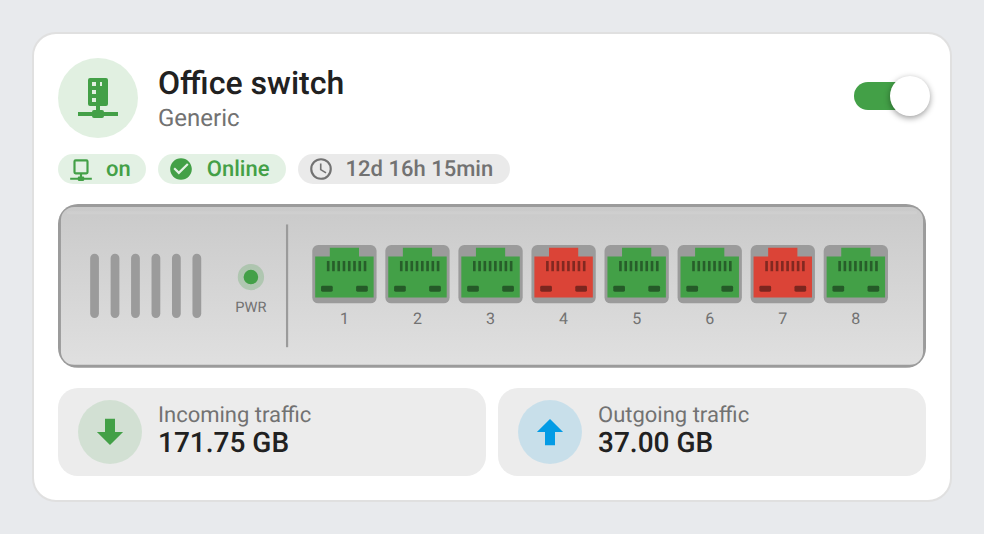
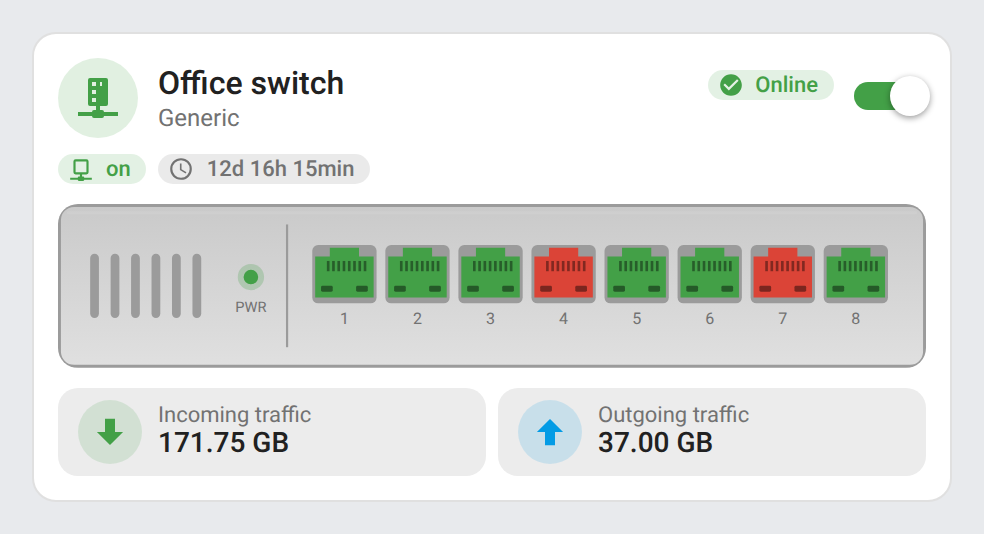
Review pass 2 fixes + release 1.8.0 (#26)
Fixes from review pass 2 (`findings/ha-switch-card.md`), release
**1.8.0** (minor: new `language` option, grey unavailable states and the
header status pill are visible behaviour changes).

## 🔴 Bugs
- `isSafeUrl`: relative paths containing `\`, tab, CR or LF are rejected
(`/\evil.com`, `/\t/evil.com` resolved to `https://evil.com/`).
Regression tests added.
- `_formatTraffic`: a non-numeric state (`unavailable` / `unknown`) goes
through `_formatState` (no more "unavailable MB"); non-byte units go
through `hass.formatEntityState` (rounded, localized). Test added.

## 🟠 Improvements
- Ports with an `unavailable` / `unknown` entity are drawn grey, not
red; README "How it works" updated.
- Header icon / power LED / status chip grey when `status_entity` is
unavailable/unknown; same for `connectivity_entity`, whose chip uses
`mdi:help-network-outline` instead of `network-off`. Test added.
- Power toggle: once the service call settles (success or failure), the
render key is dropped and the card redrawn from the real state, so a
switch that does not answer no longer leaves the toggle flipped. Test
added.

## 🟡 Consistency
- README intro: "FR/EN auto-detected" replaced by en/fr/de/es +
`language`.
- New `language` option (`config.language || HA language`) with an
editor select (Automatic / English / Français / Deutsch / Español),
README table row; follows the ha-dockhand-card pattern. Test added.
- `computeHelper` separator moved to I18N (`colon`): "Default: 8" in
[…]

Changed region(s): [[0.7012, 0.1199, 0.8537, 0.2097], [0.1524, 0.2996, 0.5183, 0.3296]]

diff --git a/src/ha-switch-card.js b/src/ha-switch-card.js
@@ -13,6 +13,8 @@ const I18N = {
     out: 'Trafic sortant',
     port: 'Port',
     default: 'Défaut',
+    colon: ' : ',
+    lang_auto: 'Automatique',
     sections: {
       general: 'Général',
       entities: 'Entités',
@@ -42,6 +44,7 @@ const I18N = {
       port_start: 'Position du 1er port (%)',
       port_step: 'Écart entre ports (%)',
       port_bottom: 'Hauteur des ports (% depuis le bas)',
+      language: 'Langue',
     },
     units: { timeticks: 'Centièmes de seconde (SNMP)', seconds: 'Secondes' },
     day: 'j',
@@ -57,6 +60,8 @@ const I18N = {
     out: 'Outgoing traffic',
     port: 'Port',
     default: 'Default',
+    colon: ': ',
+    lang_auto: 'Automatic',
     sections: {
       general: 'General',
       entities: 'Entities',
@@ -86,6 +91,7 @@ const I18N = {
       port_start: 'First port position (%)',
       port_step: 'Spacing between ports (%)',
       port_bottom: 'Port height (% from bottom)',
+      language: 'Language',
     },
     units: { timeticks: 'Hundredths of a second (SNMP)', seconds: 'Seconds' },
     day: 'd',
@@ -101,6 +107,8 @@ const I18N = {
     out: 'Ausgehender Datenverkehr',
     port: 'Port',
     default: 'Standard',
+    colon: ': ',
+    lang_auto: 'Automatisch',
     sections: {
       general: 'Allgemein',
       entities: 'Entitäten',
@@ -130,6 +138,7 @@ const I18N = {
       port_start: 'Position des ersten Ports (%)',
       port_step: 'Abstand zwischen den Ports (%)',
       port_bottom: 'Höhe der Ports (% von unten)',
+      language: 'Sprache',
     },
     units: { timeticks: 'Hundertstelsekunden (SNMP)', seconds: 'Sekunden' },
     day: 'T',
@@ -145,6 +154,8 @@ const I18N = {
     out: 'Tráfico saliente',
     port: 'Puerto',
     default: 'Predeterminado',
+    colon: ': ',
+    lang_auto: 'Automático',
     sections: {
       general: 'General',
       entities: 'Entidades',
@@ -174,6 +185,7 @@ const I18N = {
       port_start: 'Posición del primer puerto (%)',
       port_step: 'Separación entre puertos (%)',
       port_bottom: 'Altura de los puertos (% desde abajo)',
+      language: 'Idioma',
     },
     units: { timeticks: 'Centésimas de segundo (SNMP)', seconds: 'Segundos' },
     day: 'd',
@@ -225,8 +237,9 @@ const COLORS = {
 // Darker shade of a port color, for its contacts and LEDs.
 const shade = (color) => `color-mix(in srgb, ${color} 45%, #000)`;
 
-const getLang = (hass) => {
-  const l = (hass?.locale?.language || hass?.language || navigator.language || 'en').slice(0, 2);
+// `language` from the card config wins over the Home Assistant language.
+const getLang = (hass, config) => {
+  const l = String(config?.language || hass?.locale?.language || hass?.language || navigator.language || 'en').slice(0, 2);
   return I18N[l] ? l : 'en';
 };
 
@@ -234,8 +247,19 @@ const esc = (s) =>
   String(s ?? '').replace(/[&<>"']/g, (c) => ({ '&': '&amp;', '<': '&lt;', '>': '&gt;', '"': '&quot;', "'": '&#39;' })[c]);
 
 // Admin URLs opened on a tap: only http(s) and same-origin relative paths, never javascript:/data:
-// or protocol-relative //evil.com from a YAML config.
-const isSafeUrl = (url) => /^https?:\/\//i.test(url) || /^\/(?!\/)/.test(String(url));
+// or protocol-relative //evil.com from a YAML config. The browser's URL parser reads `\` as `/` and drops
+// tabs and newlines, so `/\evil.com` or `/<tab>/evil.com` would also open evil.com: a relative path with
+// any of these characters is rejected.
+const isSafeUrl = (url) => {
+  const s = String(url ?? '');
+  return /^https?:\/\//i.test(s) || (/^\/(?!\/)/.test(s) && !/[\\\t\n\r]/.test(s));
+};
+
+// An entity Home Assistant has no value for: drawn grey (state unknown), not red (off / down).
+const isUnavailable = (st) => st?.state === 'unavailable' || st?.state === 'unknown';
+
+// A config number (port overlay position), or its default when the YAML value is not a number.
+const num = (v, def) => (Number.isFinite(Number(v)) && v !== '' && v !== null ? Number(v) : def);
 
 const formatBytes = (v) => {
   if (!Number.isFinite(v)) return '—';
@@ -409,6 +433,9 @@ function configWarnings(c) {
   if (count > 52) out.push(`ports is ${count}, above the 52 the editor allows`);
   const m = !c.image && MODELS[c.model];
   if (m && count > m.ports) out.push(`model ${c.model} draws ${m.ports} ports; ports ${m.ports + 1} to ${count} are not shown`);
+  for (const k of ['port_start', 'port_step', 'port_bottom']) {
+    if (c[k] != null && num(c[k], null) === null) out.push(`${k} is not a number: the default ${DEFAULTS[k]} is used`);
+  }
   return out;
 }
 
@@ -500,12 +527,13 @@ class HaSwitchCard extends HTMLElement {
     const c = this._config;
     const st = this._state(c.status_entity);
     if (st) {
+      if (isUnavailable(st)) return COLORS.grey;
       if (statusIs(st.state, c, 'online_state')) return COLORS.green;
       if (statusIs(st.state, c, 'idle_state')) return COLORS.orange;
       return COLORS.red;
     }
     const con = this._state(c.connectivity_entity);
-    if (con) return con.state === 'on' ? COLORS.green : COLORS.red;
+    if (con) return isUnavailable(con) ? COLORS.grey : con.state === 'on' ? COLORS.green : COLORS.red;
     return COLORS.grey;
   }
 
@@ -516,9 +544,13 @@ class HaSwitchCard extends HTMLElement {
 
   _formatTraffic(st) {
     if (!st) return '—';
+    const v = parseFloat(st.state);
+    // `unavailable` / `unknown` (which keep their unit attribute) read as Home Assistant shows them, not "unavailable MB".
+    if (!Number.isFinite(v)) return this._formatState(st);
     const unit = st.attributes?.unit_of_measurement;
-    if (unit && !['B', 'bytes', 'octets', 'o'].includes(unit)) return `${st.state} ${unit}`;
-    return formatBytes(parseFloat(st.state));
+    // Other units (kB/s, Mbit/s…): rounded and localized by Home Assistant, as in its own UI.
+    if (unit && !['B', 'bytes', 'octets', 'o'].includes(unit)) return this._hass.formatEntityState ? this._hass.formatEntityState(st) : `${st.state} ${unit}`;
+    return formatBytes(v);
   }
 
   _moreInfo(entityId) {
@@ -550,28 +582,38 @@ class HaSwitchCard extends HTMLElement {
       if (id === headerEntity) k += `\u0000${st?.attributes?.friendly_name ?? ''}`;
       return k;
     };
-    const key = getLang(this._hass) + this._configKey + this._watchedIds.map(entityKey).join('|');
+    const lang = getLang(this._hass, c);
+    const key = lang + this._configKey + this._watchedIds.map(entityKey).join('|');
     if (key === this._key) return;
     this._key = key;
 
-    const t = I18N[getLang(this._hass)];
+    const t = I18N[lang];
     const statusColor = this._statusColor();
     const sw = this._state(c.switch_entity);
 
-    /* chips */
+    /* status pill (header, right of the title) and chips */
     const chips = [];
+    let conChip = '';
     const con = this._state(c.connectivity_entity);
     if (c.connectivity_entity) {
       const on = con?.state === 'on';
-      chips.push(this._chip(c.connectivity_entity, on ? 'mdi:network-outline' : 'mdi:network-off-outline', on ? COLORS.green : COLORS.red, this._formatState(con)));
+      // Unreachable (unavailable / unknown) is grey with a question mark, not the red "network off" of a real outage.
+      const unknown = !con || isUnavailable(con);
+      const icon = unknown ? 'mdi:help-network-outline' : on ? 'mdi:network-outline' : 'mdi:network-off-outline';
+      conChip = this._chip(c.connectivity_entity, icon, unknown ? COLORS.grey : on ? COLORS.green : COLORS.red, this._formatState(con));
     }
+    let pill = '';
     const st = this._state(c.status_entity);
     if (c.status_entity) {
       // Online / idle read in the card's language, whatever the sensor reports; any other state as Home Assistant shows it.
       const online = statusIs(st?.state, c, 'online_state');
       const idle = !online && statusIs(st?.state, c, 'idle_state');
-      const icon = online ? 'mdi:check-circle' : idle ? 'mdi:minus-circle' : 'mdi:alert-circle';
-      chips.push(this._chip(c.status_entity, icon, statusColor, online ? t.online : idle ? t.idle : this._formatState(st)));
+      const icon = online ? 'mdi:check-circle' : idle ? 'mdi:minus-circle' : isUnavailable(st) ? 'mdi:help-circle' : 'mdi:alert-circle';
+      pill = this._chip(c.status_entity, icon, statusColor, online ? t.online : idle ? t.idle : this._formatState(st));
+      if (conChip) chips.push(conChip);
+    } else {
+      // No status sensor: connectivity is the header status.
+      pill = conChip;
     }
     if (c.uptime_entity) {
       chips.push(this._chip(c.uptime_entity, 'mdi:clock-outline', COLORS.neutral, formatUptime(this._state(c.uptime_entity)?.state, c.uptime_unit, t.day)));
@@ -584,7 +626,8 @@ class HaSwitchCard extends HTMLElement {
       const id = this._portEntity(n);
       const ps = this._state(id);
       const up = ps?.state === String(c.port_on_state);
-      const color = !ps ? COLORS.grey : up ? COLORS.green : COLORS.red;
+      // Missing, unavailable or unknown: grey, so a dead SNMP poll does not show every port as down.
+      const color = !ps || isUnavailable(ps) ? COLORS.grey : up ? COLORS.green : COLORS.red;
       portInfo.push({ n, id, colors: [color, shade(color)] });
     }
     const urlAttr = c.url ? `data-url="${esc(c.url)}" role="link" tabindex="0" aria-label="${esc(t.open_admin)}"` : '';
@@ -592,11 +635,11 @@ class HaSwitchCard extends HTMLElement {
     if (c.image) {
       const ports = portInfo.map(
         ({ n, id, colors }) =>
-          `<div class="port" style="left:${Number(c.port_start) + (n - 1) * Number(c.port_step)}%" data-entity="${esc(id)}" role="button" tabindex="0" title="${t.port} ${n}">${portSvg(...colors)}</div>`
+          `<div class="port" style="left:${num(c.port_start, DEFAULTS.port_start) + (n - 1) * num(c.port_step, DEFAULTS.port_step)}%" data-entity="${esc(id)}" role="button" tabindex="0" title="${t.port} ${n}">${portSvg(...colors)}</div>`
       );
       device = `<div class="device img" ${urlAttr}>
            <img src="${esc(c.image)}" alt="">
-           <div class="ports abs" style="bottom:${Number(c.port_bottom)}%">${ports.join('')}</div>
+           <div class="ports abs" style="bottom:${num(c.port_bottom, DEFAULTS.port_bottom)}%">${ports.join('')}</div>
          </div>`;
     } else if (MODELS[c.model]) {
       const m = MODELS[c.model];
@@ -624,7 +667,7 @@ class HaSwitchCard extends HTMLElement {
             <ha-icon icon="${esc(c.icon)}"></ha-icon>
           </div>
           <div class="titles">
-            <div class="name">${esc(c.name)}</div>
+            <div class="title-row"><div class="name">${esc(c.name)}</div>${pill}</div>
             ${c.subtitle ? `<div class="sub">${esc(c.subtitle)}</div>` : ''}
           </div>
           ${sw ? `<ha-switch></ha-switch>` : ''}
@@ -646,12 +689,15 @@ class HaSwitchCard extends HTMLElement {
       toggle.disabled = sw.state === 'unavailable' || sw.state === 'unknown';
       toggle.addEventListener('change', (ev) => {
         const [domain] = c.switch_entity.split('.');
-        // On failure the toggle would stay visually flipped until the next state change:
-        // drop the render key and redraw from the real state.
-        Promise.resolve(this._hass.callService(domain, ev.target.checked ? 'turn_on' : 'turn_off', { entity_id: c.switch_entity })).catch(() => {
-          this._key = '';
-          this._render();
-        });
+        // When the call fails, or succeeds but the entity keeps its state (a switch that does not answer),
+        // the render key does not change and the toggle would stay visually flipped: once the call settles,
+        // drop the key and redraw from the real state.
+        Promise.resolve(this._hass.callService(domain, ev.target.checked ? 'turn_on' : 'turn_off', { entity_id: c.switch_entity }))
+          .catch(() => {})
+          .then(() => {
+            this._key = '';
+            this._render();
+          });
       });
     }
   }
@@ -681,6 +727,10 @@ class HaSwitchCard extends HTMLElement {
       }
       .ic.big { --size: 40px; --mdc-icon-size: 24px; background: color-mix(in srgb, var(--c) 16%, transparent); }
       .titles { min-width: 0; }
+      /* The status pill shares the title's line, right of the name (left of the power toggle), whatever the subtitle. */
+      .title-row { display: flex; align-items: center; gap: 8px; }
+      .title-row > .name { flex: 1; min-width: 0; }
+      .title-row > .chip { flex: none; white-space: nowrap; }
       .name { font-size: 16px; font-weight: 500; line-height: 1.25; color: var(--primary-text-color); white-space: nowrap; overflow: hidden; text-overflow: ellipsis; }
       .sub { font-size: 12px; color: var(--secondary-text-color); white-space: nowrap; overflow: hidden; text-overflow: ellipsis; }
       ha-switch {
@@ -736,10 +786,10 @@ class HaSwitchCardEditor extends HTMLElement {
   }
 
   set hass(hass) {
-    const prevLang = this._hass ? getLang(this._hass) : null;
+    const prevLang = this._hass ? getLang(this._hass, this._config) : null;
     this._hass = hass;
     // Only a language change needs new labels: otherwise hand the new hass to the form and keep it as is.
-    if (this._form && prevLang === getLang(hass)) {
+    if (this._form && prevLang === getLang(hass, this._config)) {
       this._form.hass = hass;
       return;
     }
@@ -817,6 +867,21 @@ class HaSwitchCardEditor extends HTMLElement {
             ],
           },
           { name: 'url', selector: { text: { type: 'url' } } },
+          {
+            name: 'language',
+            selector: {
+              select: {
+                mode: 'dropdown',
+                options: [
+                  { value: '', label: t.lang_auto },
+                  { value: 'en', label: 'English' },
+                  { value: 'fr', label: 'Français' },
+                  { value: 'de', label: 'Deutsch' },
+                  { value: 'es', label: 'Español' },
+                ],
+              },
+            },
+          },
         ],
       },
     ];
@@ -824,7 +889,7 @@ class HaSwitchCardEditor extends HTMLElement {
 
   _render() {
     if (!this._hass || !this._config) return;
-    const t = I18N[getLang(this._hass)];
+    const t = I18N[getLang(this._hass, this._config)];
     if (!this._form) {
       this._form = document.createElement('ha-form');
       this._form.addEventListener('value-changed', (ev) => {
@@ -844,7 +909,7 @@ class HaSwitchCardEditor extends HTMLElement {
     this._form.computeLabel = (s) => t.fields[s.name] ?? s.name;
     this._form.computeHelper = (s) => {
       const def = DEFAULTS[s.name] ?? STATUS_DEFAULTS[s.name]?.join(' / ');
-      return def !== undefined ? `${t.default} : ${def}` : undefined;
+      return def !== undefined ? `${t.default}${t.colon}${def}` : undefined;
     };
   }
 }

diff --git a/README.md b/README.md
@@ -6,7 +6,7 @@
 [![Release](https://img.shields.io/github/v/release/juju35/ha-switch-card)](https://github.com/juju35/ha-switch-card/releases/latest)
 [![License: MIT](https://img.shields.io/badge/License-MIT-yellow.svg)](LICENSE)
 
-Custom Lovelace card for Home Assistant displaying a managed network switch (SNMP): power toggle, global status, connectivity, uptime, per-port state and traffic. Pure JavaScript, no dependencies (no mushroom, card-mod or button-card required). Fully configurable from the visual editor. FR/EN auto-detected.
+Custom Lovelace card for Home Assistant displaying a managed network switch (SNMP): power toggle, global status, connectivity, uptime, per-port state and traffic. Pure JavaScript, no dependencies (no mushroom, card-mod or button-card required). Fully configurable from the visual editor. English, French, German and Spanish, auto-detected from Home Assistant or set with `language`.
 
 [![Open your Home Assistant instance and open a repository inside the Home Assistant Community Store.](https://my.home-assistant.io/badges/hacs_repository.svg)](https://my.home-assistant.io/redirect/hacs_repository/?owner=juju35&repository=ha-switch-card&category=plugin)
 
@@ -68,7 +68,7 @@ Or manually:
 
 ### Visual editor
 
-Edit a dashboard, click **Add card** and search for **Network switch card**. Every option below is available in the editor, grouped by entities, ports and appearance.
+Edit a dashboard, click **Add card** and search for **Network switch card**. Every option below is available in the editor, grouped by entities, ports, status and appearance.
 
 ### Full options
 
@@ -101,15 +101,16 @@ url: http://switch.local
 | `connectivity_entity` | – | Connectivity `binary_sensor` |
 | `uptime_entity` | – | Uptime sensor |
 | `uptime_unit` | `timeticks` | `timeticks` (SNMP, 1/100 s) or `seconds` |
-| `traffic_in_entity` / `traffic_out_entity` | – | Traffic sensors (bytes, auto-scaled) |
+| `traffic_in_entity` / `traffic_out_entity` | – | Traffic sensors: bytes are auto-scaled, other units (`kB/s`, `Mbit/s`…) are shown as Home Assistant formats them |
 | `ports` | `8` | Number of ports |
 | `port_pattern` | `sensor.switch_port_{n}_status` | Port entity pattern, `{n}` = port number |
 | `port_on_state` | `1` | State meaning "port up" |
-| `online_state` / `idle_state` | `Online` or `En ligne` / `Idle` or `Inactif` | Values of `status_entity` shown green / orange (anything else → red), compared case-insensitively. Unset, both the English and French values match; set them to the state your status sensor reports otherwise, e.g. `up` / `standby`. The status chip then reads Online / Idle in the dashboard language (English, French, German or Spanish) |
+| `online_state` / `idle_state` | `Online` or `En ligne` / `Idle` or `Inactif` | Values of `status_entity` shown green / orange (anything else → red), compared case-insensitively. Unset, both the English and French values match; set them to the state your status sensor reports otherwise, e.g. `up` / `standby`. The status pill then reads Online / Idle in the dashboard language (English, French, German or Spanish) |
 | `model` | `generic` | Embedded device image: `generic` (drawn front panel, any port count, up to 52) or `gs308t` (drawn Netgear GS308T / S350 front panel: 8 ports in two groups of four, link LED lit when the port is up) |
 | `image` | – | Custom device image URL, overrides `model` |
 | `port_start` / `port_step` / `port_bottom` | `21` / `10` / `39` | Port overlay position on a custom `image` (%) |
 | `url` | – | Opened when tapping the device |
+| `language` | Auto | Force language: `en`, `fr`, `de` or `es` (auto-detects from HA settings) |
 
 Tapping any chip, tile or port opens its more-info dialog.
 
@@ -121,7 +122,9 @@ Dark theme (the light theme and the GS308T front panel are shown at the top of t
 
 ## How it works
 
-Ports are read from `port_pattern` with `{n}` replaced by the port number, and drawn green when their state equals `port_on_state`, red otherwise, grey when the entity is missing. The header icon and the power LED follow `status_entity` (`online_state` green, `idle_state` orange, anything else red), or `connectivity_entity` when no status is set.
+Ports are read from `port_pattern` with `{n}` replaced by the port number, and drawn green when their state equals `port_on_state`, red otherwise, grey when the entity is missing, `unavailable` or `unknown` (so a failed SNMP poll does not show every port as down). The header icon and the power LED follow `status_entity` (`online_state` green, `idle_state` orange, `unavailable` / `unknown` grey, anything else red), or `connectivity_entity` when no status is set (`on` green, `unavailable` / `unknown` grey, otherwise red).
+
+As in the other juju35 cards, the status pill sits on the right of the header, on the title's line (left of the power toggle): it shows `status_entity`, or `connectivity_entity` when no status is set. The other chips (connectivity when a status is set, uptime) are shown under the header.
 
 The generic front panel is an SVG drawn by the card: up to 12 ports on one row, beyond that odd ports on top and even ports below, like real switches. Its body is derived from the theme's card and text colors, so it stays readable in light and dark mode.
 
@@ -144,7 +147,7 @@ npm run screenshots  # renders the card with mock entities into screenshots/
 
 ## Translations
 
-The card auto-detects the language from your Home Assistant settings. Currently supported:
+The card auto-detects the language from your Home Assistant settings; set `language` to force one. Currently supported:
 
 | Language | Code |
 |---|---|

diff --git a/CHANGELOG.md b/CHANGELOG.md
@@ -1,5 +1,22 @@
 # Changelog
 
+## 1.8.0 - 2026-10-29
+
+### Fixes
+- The admin `url` no longer opens an external site through a relative path containing `\`, a tab or a newline (`/\evil.com`, `/<tab>/evil.com`), which browsers read as `//evil.com`.
+- Traffic tiles: an `unavailable` / `unknown` sensor reads as Home Assistant shows it instead of "unavailable MB", and values in other units (`kB/s`, `Mbit/s`…) are rounded and localized by Home Assistant.
+- Ports, the header icon, the power LED and the status / connectivity chips are grey when their entity is `unavailable` or `unknown`, instead of red as if the switch or the port were down. The connectivity chip shows a question-mark icon in that case.
+- The power toggle no longer stays visually flipped when the service call succeeds but the switch keeps its state.
+- Editor helpers read "Default: 8" in English, German and Spanish (the French spacing "Default : 8" is kept for French only).
+- Non-numeric `port_start` / `port_step` / `port_bottom` in YAML fall back to their defaults (with a console warning) instead of misplacing the ports.
+
+### Changes
+- Header status pill on the right of the header, on the title's line (left of the power toggle), like the other juju35 cards: it shows `status_entity`, or `connectivity_entity` when no status is set; the remaining chips stay under the header.
+- New `language` option (and editor field) to force the card language: `en`, `fr`, `de` or `es`; unset, the Home Assistant language is used as before.
+
+### Maintenance
+- README: language support, editor sections, grey unavailable states and the header layout documented. CI: the Screenshots job fails clearly when apt fails three times and time-boxes the Chromium download; Biome no longer runs twice in the Lint workflow; when the Screenshots job pushes refreshed captures (with `GITHUB_TOKEN`, which triggers no `pull_request` run), it re-runs Lint, Validate and HACS on the branch through `workflow_dispatch`, so the PR's last commit has its checks.
+
 ## 1.7.0 - 2026-10-28
 
 ### Changes
